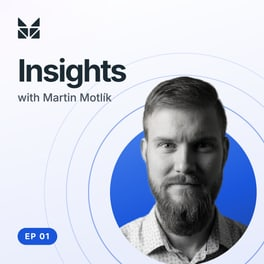
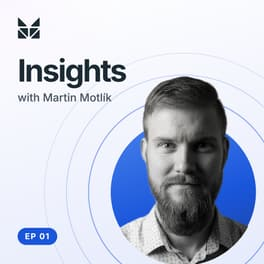
Update the podcast cover: the disc sits 1 px inside the portrait mask
Design update (handoff, cover "O · Ripple"): the blue disc is 198 px at
(151, 163) instead of 200 px, so the photo covers its edge and no blue
anti-aliasing fringe shows around the shoulders. Applied to the cover
generator and the animated cover on the podcast page; every cover file
re-exported (show 3000 / 1200, EP 01 3000 / 264 / 144 / 96).

tools/podcast-covers.mjs builds the renditions from the PNG masters;
tools/dev-server.mjs is the local preview server (byte ranges, and the
endpoint the cover generator saves its exports to).

diff --git a/cs/insights/podcast/index.html b/cs/insights/podcast/index.html
@@ -370,10 +370,11 @@ img{display:block;max-width:100%}
 .cv.on .cv-r1{transform:scale(1.06);border-color:rgba(26,86,219,.75)}
 .cv.on .cv-r2{transform:scale(1.13);border-color:rgba(26,86,219,.45)}
 .cv.on .cv-r3{transform:scale(1.22);border-color:rgba(26,86,219,.28)}
-/* Disc and portrait move as one, or the mask edge would slip. */
+/* Disc and portrait move as one, or the mask edge would slip. The disc is 1px
+   inside the 100px mask, so the photo covers its edge (no blue fringe). */
 .cv-g{inset:0;transform-origin:250px 262px;transition:transform .8s var(--ease)}
 .cv.on .cv-g{transform:translate(calc(var(--mx) * 6px),calc(var(--my) * 4px - 2px)) scale(1.035)}
-.cv-disc{position:absolute;left:150px;top:162px;width:200px;height:200px;border-radius:50%;background:linear-gradient(160deg,#4A82EC,#1A56DB 58%,#1E429F)}
+.cv-disc{position:absolute;left:151px;top:163px;width:198px;height:198px;border-radius:50%;background:linear-gradient(160deg,#4A82EC,#1A56DB 58%,#1E429F)}
 /* Pop-out mask: inside the disc, plus everything above its centre line. */
 .cv-me{position:absolute;left:145px;top:92px;width:210px;height:280px;max-width:none;object-fit:contain;object-position:center top;-webkit-mask-image:radial-gradient(circle 100px at 105px 170px,#000 99.4%,transparent 100%),linear-gradient(180deg,#000 170px,transparent 170px);mask-image:radial-gradient(circle 100px at 105px 170px,#000 99.4%,transparent 100%),linear-gradient(180deg,#000 170px,transparent 170px);-webkit-mask-repeat:no-repeat;mask-repeat:no-repeat}
 .cv-logo{left:24px;top:24px;width:30px;height:29px}

diff --git a/de/insights/podcast/index.html b/de/insights/podcast/index.html
@@ -370,10 +370,11 @@ img{display:block;max-width:100%}
 .cv.on .cv-r1{transform:scale(1.06);border-color:rgba(26,86,219,.75)}
 .cv.on .cv-r2{transform:scale(1.13);border-color:rgba(26,86,219,.45)}
 .cv.on .cv-r3{transform:scale(1.22);border-color:rgba(26,86,219,.28)}
-/* Disc and portrait move as one, or the mask edge would slip. */
+/* Disc and portrait move as one, or the mask edge would slip. The disc is 1px
+   inside the 100px mask, so the photo covers its edge (no blue fringe). */
 .cv-g{inset:0;transform-origin:250px 262px;transition:transform .8s var(--ease)}
 .cv.on .cv-g{transform:translate(calc(var(--mx) * 6px),calc(var(--my) * 4px - 2px)) scale(1.035)}
-.cv-disc{position:absolute;left:150px;top:162px;width:200px;height:200px;border-radius:50%;background:linear-gradient(160deg,#4A82EC,#1A56DB 58%,#1E429F)}
+.cv-disc{position:absolute;left:151px;top:163px;width:198px;height:198px;border-radius:50%;background:linear-gradient(160deg,#4A82EC,#1A56DB 58%,#1E429F)}
 /* Pop-out mask: inside the disc, plus everything above its centre line. */
 .cv-me{position:absolute;left:145px;top:92px;width:210px;height:280px;max-width:none;object-fit:contain;object-position:center top;-webkit-mask-image:radial-gradient(circle 100px at 105px 170px,#000 99.4%,transparent 100%),linear-gradient(180deg,#000 170px,transparent 170px);mask-image:radial-gradient(circle 100px at 105px 170px,#000 99.4%,transparent 100%),linear-gradient(180deg,#000 170px,transparent 170px);-webkit-mask-repeat:no-repeat;mask-repeat:no-repeat}
 .cv-logo{left:24px;top:24px;width:30px;height:29px}

diff --git a/insights/podcast/index.html b/insights/podcast/index.html
@@ -369,10 +369,11 @@ img{display:block;max-width:100%}
 .cv.on .cv-r1{transform:scale(1.06);border-color:rgba(26,86,219,.75)}
 .cv.on .cv-r2{transform:scale(1.13);border-color:rgba(26,86,219,.45)}
 .cv.on .cv-r3{transform:scale(1.22);border-color:rgba(26,86,219,.28)}
-/* Disc and portrait move as one, or the mask edge would slip. */
+/* Disc and portrait move as one, or the mask edge would slip. The disc is 1px
+   inside the 100px mask, so the photo covers its edge (no blue fringe). */
 .cv-g{inset:0;transform-origin:250px 262px;transition:transform .8s var(--ease)}
 .cv.on .cv-g{transform:translate(calc(var(--mx) * 6px),calc(var(--my) * 4px - 2px)) scale(1.035)}
-.cv-disc{position:absolute;left:150px;top:162px;width:200px;height:200px;border-radius:50%;background:linear-gradient(160deg,#4A82EC,#1A56DB 58%,#1E429F)}
+.cv-disc{position:absolute;left:151px;top:163px;width:198px;height:198px;border-radius:50%;background:linear-gradient(160deg,#4A82EC,#1A56DB 58%,#1E429F)}
 /* Pop-out mask: inside the disc, plus everything above its centre line. */
 .cv-me{position:absolute;left:145px;top:92px;width:210px;height:280px;max-width:none;object-fit:contain;object-position:center top;-webkit-mask-image:radial-gradient(circle 100px at 105px 170px,#000 99.4%,transparent 100%),linear-gradient(180deg,#000 170px,transparent 170px);mask-image:radial-gradient(circle 100px at 105px 170px,#000 99.4%,transparent 100%),linear-gradient(180deg,#000 170px,transparent 170px);-webkit-mask-repeat:no-repeat;mask-repeat:no-repeat}
 .cv-logo{left:24px;top:24px;width:30px;height:29px}

diff --git a/tools/podcast-cover.html b/tools/podcast-cover.html
@@ -53,9 +53,10 @@ function draw(canvas, tag, img) {
   [[189.5, 1, .14], [159.5, 1, .26], [129.25, 1.5, .45]].forEach(([r, w, a]) => {
     ctx.beginPath(); ctx.arc(250, 262, r, 0, Math.PI * 2); ctx.lineWidth = w; ctx.strokeStyle = `rgba(26,86,219,${a})`; ctx.stroke();
   });
-  // Disc
-  ctx.beginPath(); ctx.arc(250, 262, 100, 0, Math.PI * 2);
-  ctx.fillStyle = cssLinear(ctx, 160, 150, 162, 200, 200, [[0, '#4A82EC'], [.58, '#1A56DB'], [1, '#1E429F']]); ctx.fill();
+  // Disc: 198 px at (151, 163), 1 px inside the portrait's 100 px mask, so the
+  // photo covers the disc edge and no blue anti-aliasing fringe shows
+  ctx.beginPath(); ctx.arc(250, 262, 99, 0, Math.PI * 2);
+  ctx.fillStyle = cssLinear(ctx, 160, 151, 163, 198, 198, [[0, '#4A82EC'], [.58, '#1A56DB'], [1, '#1E429F']]); ctx.fill();
   // Portrait, 210 × 280 box at (145, 92), "contain, centre top"; pop-out mask:
   // inside the disc, plus everything above the disc's centre line
   const s = Math.min(210 / img.width, 280 / img.height), w = img.width * s, h = img.height * s;

diff --git a/assets/podcast/README.md b/assets/podcast/README.md
@@ -42,7 +42,9 @@ sign-up in the privacy information.
 | Cover sources | `martin-portrait-420.{avif,png}`, `martin-portrait-1000.avif`, `mm-logo-dark.svg` |
 
 The animated cover on the podcast page is the same design in HTML/CSS
-(`.cv` in `insights/podcast/index.html`).
+(`.cv` in `insights/podcast/index.html`). The blue disc is 198 px, 1 px
+inside the portrait's 100 px mask, so the photo always covers its edge;
+keep the two in step if the design changes.
 
 Everything else is generated by `tools/build-podcast.py`, which
 `tools/build-i18n.py` runs first:
@@ -61,8 +63,12 @@ Everything else is generated by `tools/build-podcast.py`, which
 1. Put the files in place: `assets/podcast/epNNN-<slug>.mp3` and `.vtt`, and
    the transcript as `podcast/episodes/epNNN-<slug>.md` with chapters as
    `### Title [m:ss]` and lines as `**Name** [m:ss]: text`.
-2. Draw the covers with `tools/podcast-cover.html` (tag `EP NN`): the 3000 px
-   JPG and the 96 / 144 / 264 px AVIF + JPG renditions.
+2. Draw the cover with `tools/podcast-cover.html` (tag `EP NN`) and save the
+   3000 px PNG as `Sources/originals/podcast/cover-epNN-3000.png` (on the
+   `site-range` dev server, `exportCover('EP NN', 3000, 'image/png', 0, 'cover-epNN-3000.png')`
+   saves it to `Sources/exports/`). Then `node tools/podcast-covers.mjs`
+   writes the 3000 px JPG and the 96 / 144 / 264 px AVIF + JPG renditions
+   (and the show cover's 3000 / 1200 px JPGs from `cover-3000.png`).
 3. Add the episode to `podcast/podcast.json`: number, slug, title, article,
    category, publish date, duration in whole seconds, cover, teaser (podcast
    page), summary (JSON-LD, feed), note, disclosure, and `h2`: which H2 (`id`)
